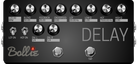
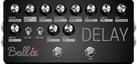
Added display for current tempo.

diff --git a/modgui/bolliedelay.html b/modgui/bolliedelay.html
@@ -5,7 +5,7 @@
        <div class="mod-knob" title="This sets the tempo mode.">
           <div class="mod-knob-image" mod-role="input-control-port" mod-port-symbol="tempo_mode"></div>
           <span class="mod-knob-title">Tempo Mode</span>
-          <div class="mod-knob-value" contenteditable="true" mod-role="input-control-value" mod-port-symbol="tempo_mode"></div>
+          <div class="mod-knob-value" contenteditable="false" mod-role="input-control-value" mod-port-symbol="tempo_mode"></div>
        </div>
        <div class="mod-knob" title="This sets the tempo in BPM.">
           <div class="mod-knob-image" mod-role="input-control-port" mod-port-symbol="tempo_user"></div>
@@ -58,15 +58,15 @@
        <div class="mod-knob" title="Delay Time Division Left">
           <div class="mod-knob-image" mod-role="input-control-port" mod-port-symbol="div_l"></div>
           <span class="mod-knob-title">Div. L</span>
-          <div class="mod-knob-value" contenteditable="true" mod-role="input-control-value" mod-port-symbol="div_l"></div>
+          <div class="mod-knob-value" contenteditable="false" mod-role="input-control-value" mod-port-symbol="div_l"></div>
        </div>
        <div class="mod-knob" title="Delay Time Division Right">
           <div class="mod-knob-image" mod-role="input-control-port" mod-port-symbol="div_r"></div>
           <span class="mod-knob-title">Div. R</span>
-          <div class="mod-knob-value" contenteditable="true" mod-role="input-control-value" mod-port-symbol="div_r"></div>
+          <div class="mod-knob-value" contenteditable="false" mod-role="input-control-value" mod-port-symbol="div_r"></div>
        </div>
        <div class="mod-knob" title="Current BPM">
-          <div class="mod-knob-value" contenteditable="true" mod-role="input-control-value" mod-port-symbol="tempo_out"></div>
+          <div class="mod-knob-value" contenteditable="false" mod-role="output-control-value" mod-port-symbol="tempo_out"></div>
           <span class="mod-knob-title">Current Tempo</span>
        </div>
     </div>

diff --git a/modgui/bolliedelay.js b/modgui/bolliedelay.js
@@ -1,0 +1,22 @@
+function (event) {
+
+    function handle_event (symbol, value) {
+        switch (symbol) {
+            case 'tempo_out':
+                event.icon.find ('[mod-port-symbol=tempo_out]').text(value);
+                break;
+            default:
+                break;
+        }
+    }
+
+    if (event.type == 'start') {
+        var ports = event.ports;
+        for (var p in ports) {
+            handle_event (ports[p].symbol, ports[p].value);
+        }
+    }
+    else if (event.type == 'change') {
+        handle_event (event.symbol, event.value);
+    }
+}
